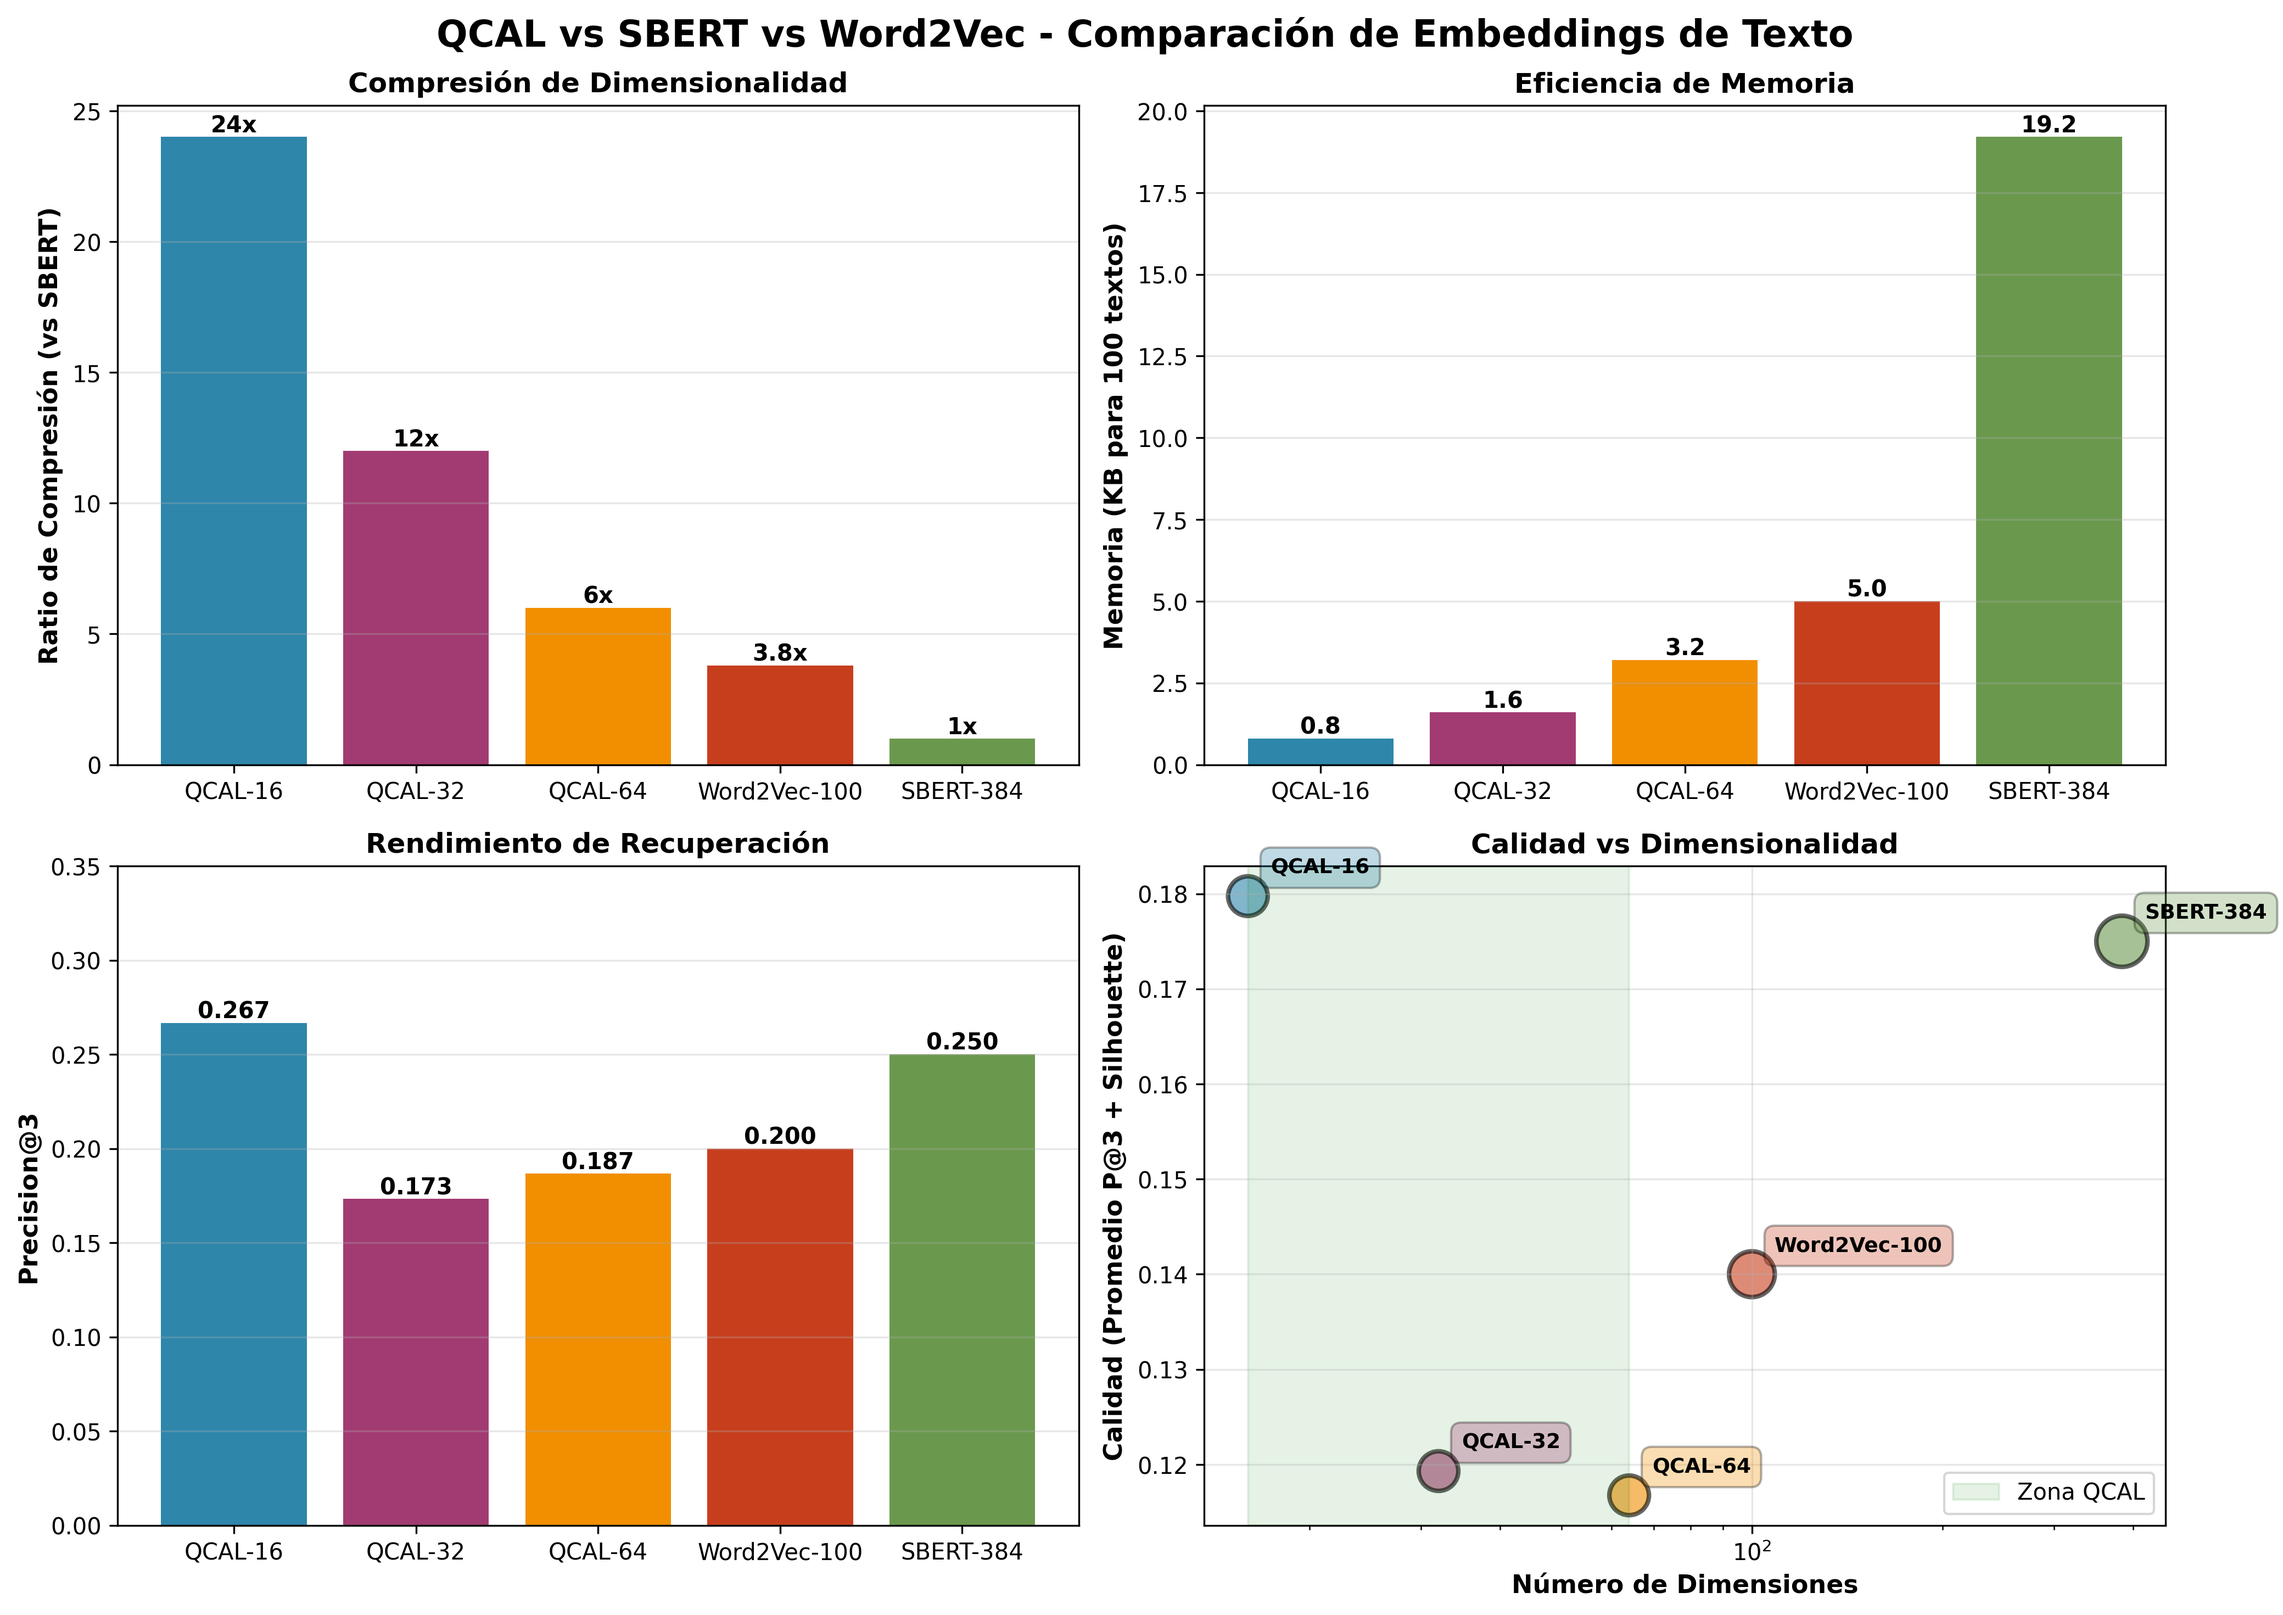
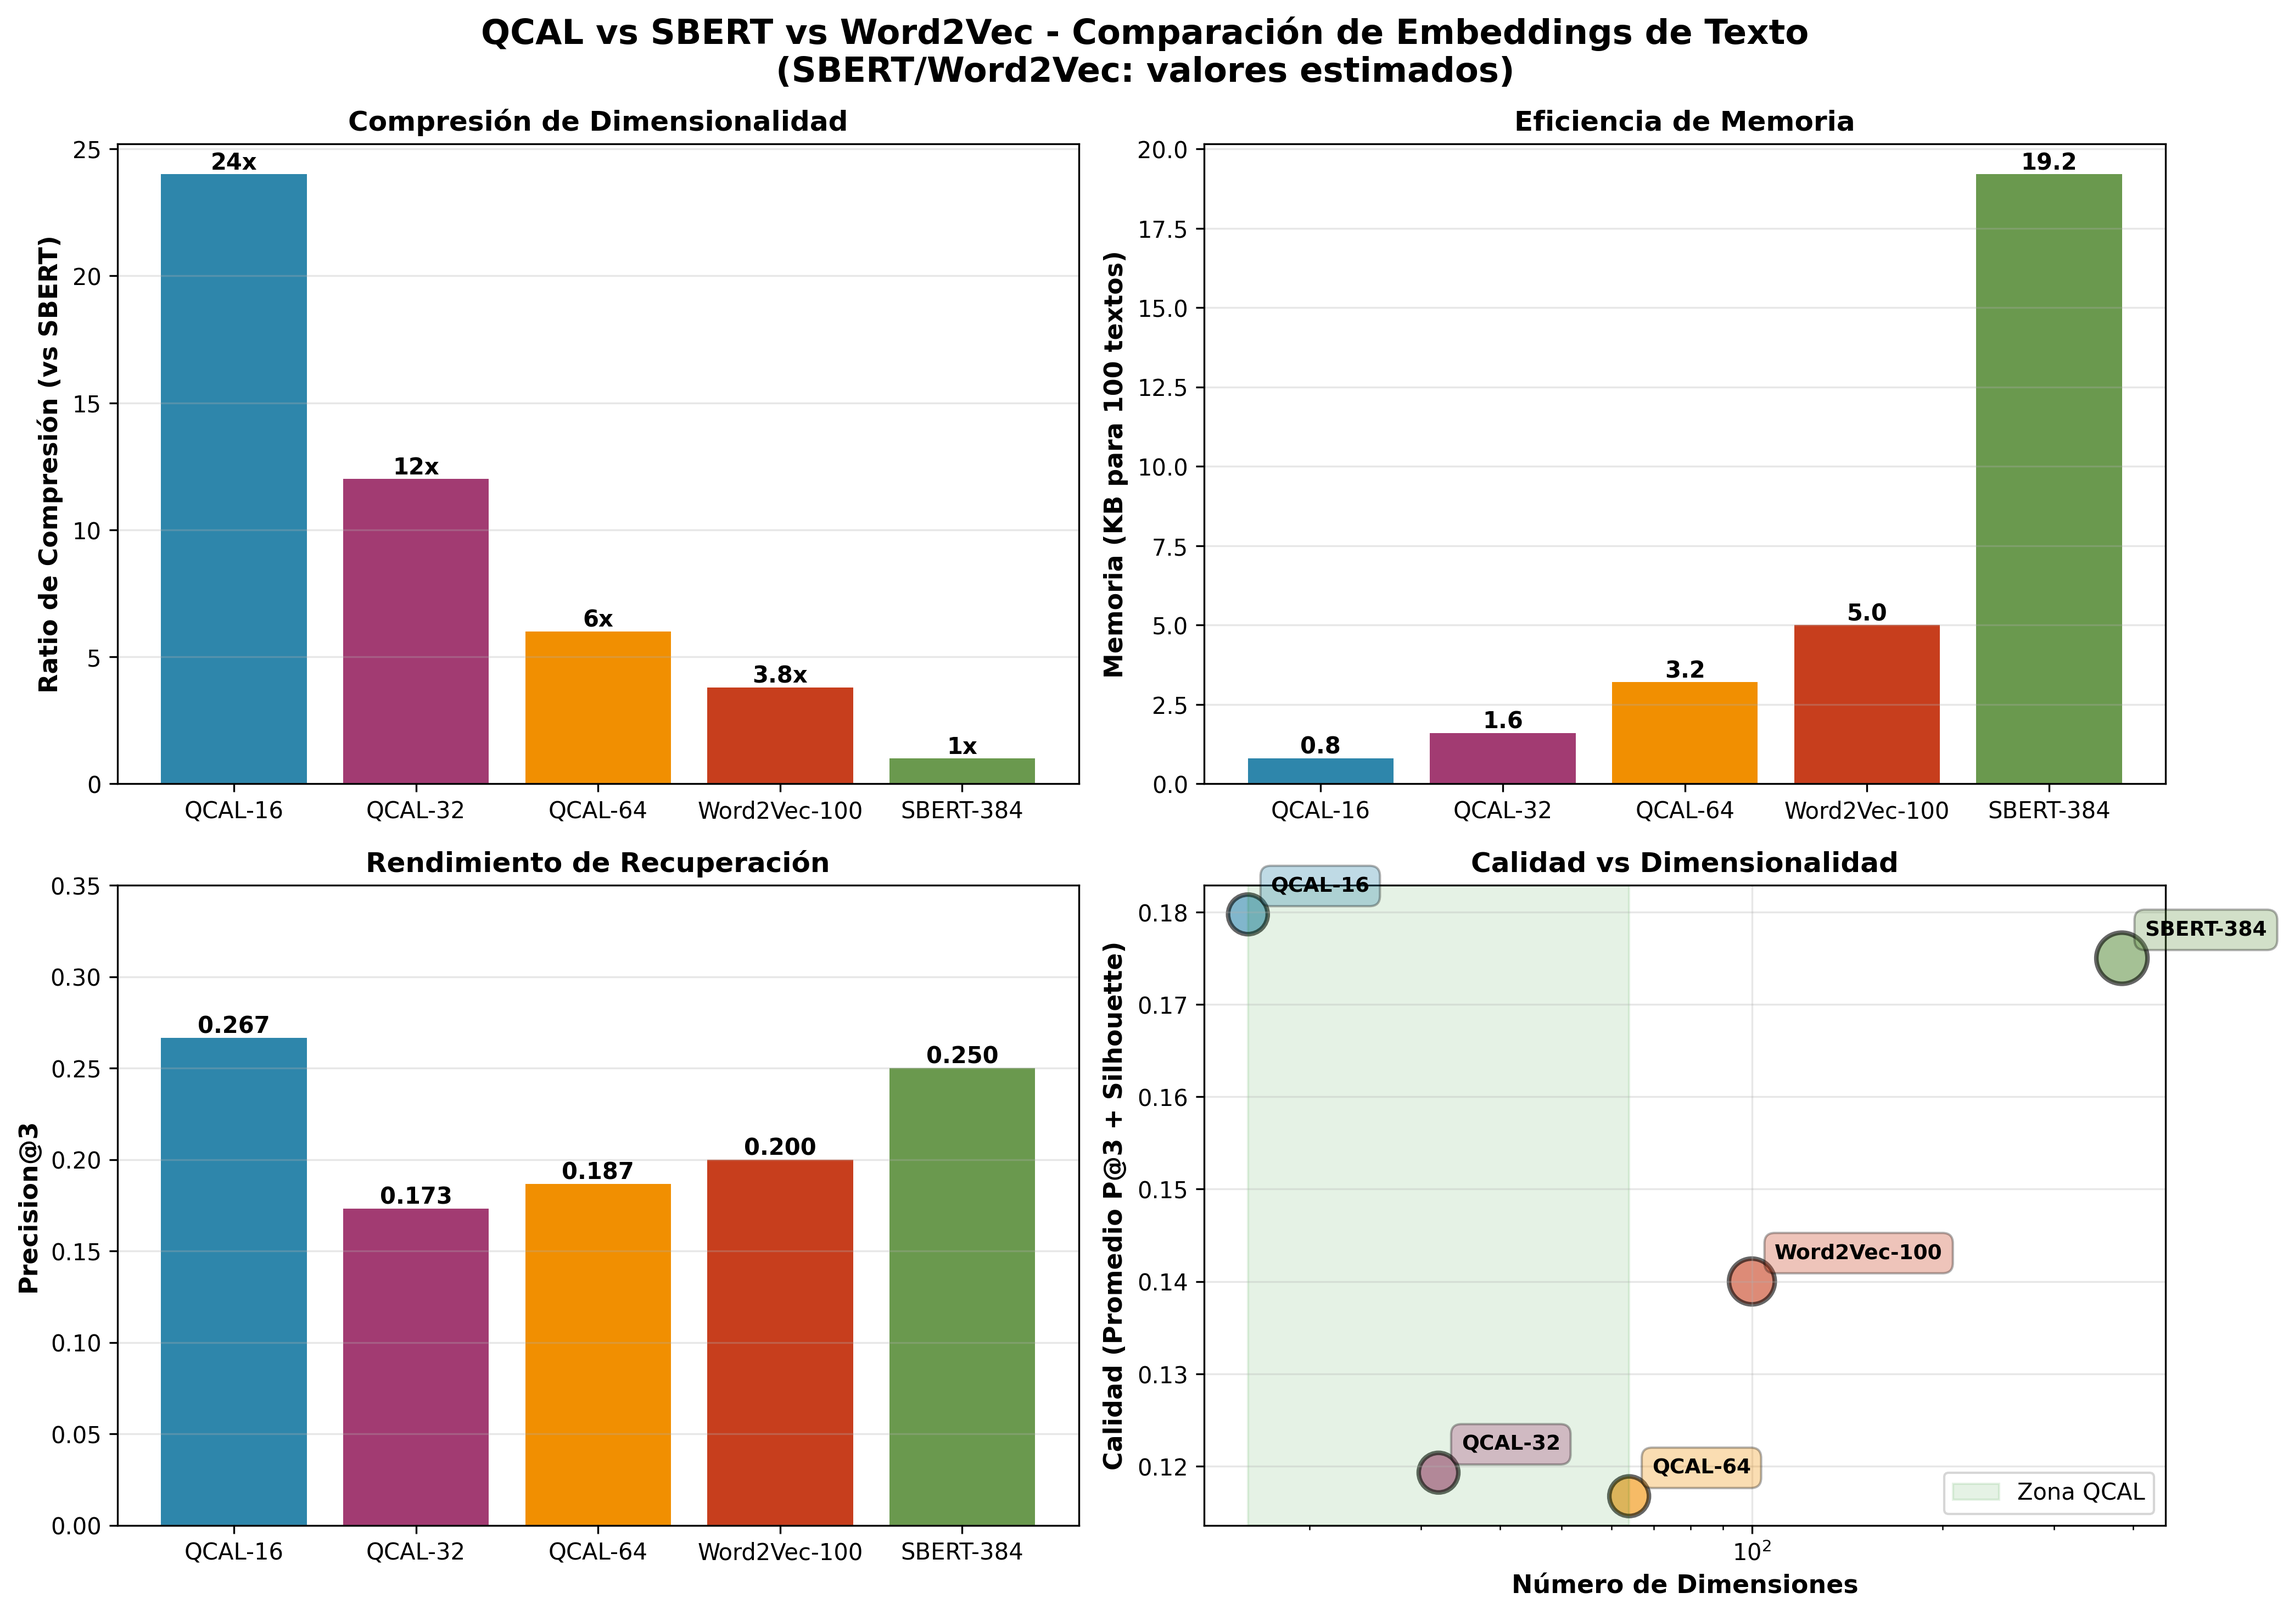
Address code review feedback
- Reduced mpmath precision from 50 to 15 decimal places for efficiency
- Added named constants for magic numbers (CHAR_NORM_DIVISOR, HASH_MODULO, HASH_SLICE_LEN)
- Added clarifying comments to hash encoding logic
- Added disclaimer to visualization about estimated SBERT/Word2Vec values
- All tests still pass

diff --git a/qcal/text_encoder.py b/qcal/text_encoder.py
@@ -40,10 +40,10 @@ class QCALTextEncoder:
         self.n_dimensions = n_dimensions
         self.f0 = f0
         
-        # Set mpmath precision
-        mpmath.mp.dps = 50
+        # Set mpmath precision (15 decimal places sufficient for our needs)
+        mpmath.mp.dps = 15
         
-        # QCAL constants
+        # QCAL constants (computed once for efficiency)
         self.zeta_prime_half = float(mpmath.zeta(mpmath.mpf('0.5'), derivative=1))
         self.phi = (1 + np.sqrt(5)) / 2  # Golden ratio
         self.kappa_pi = 2.5782  # Adelic constant
@@ -51,6 +51,11 @@ class QCALTextEncoder:
         
         # Initialize projection matrix using spectral properties
         self._init_projection_matrix()
+        
+    # Constants for hash encoding
+    CHAR_NORM_DIVISOR = 128.0  # ASCII printable character range normalization
+    HASH_MODULO = 1000  # Hash normalization for distribution
+    HASH_SLICE_LEN = 8  # SHA256 hexdigest slice length for int conversion
     
     def _init_projection_matrix(self):
         """Initialize spectral projection matrix based on f0 and QCAL constants."""
@@ -87,21 +92,21 @@ class QCALTextEncoder:
         
         # 1. Character-level hashing (0-63)
         for i, char in enumerate(text[:64]):
-            hash_features[i] = (ord(char) / 128.0) * self.psi_resonance
+            hash_features[i] = (ord(char) / self.CHAR_NORM_DIVISOR) * self.psi_resonance
         
         # 2. Word-level hashing (64-127)
         words = text.split()[:32]
         for i, word in enumerate(words):
-            word_hash = int(hashlib.sha256(word.encode()).hexdigest()[:8], 16)
-            hash_features[64 + i * 2] = (word_hash % 1000) / 1000.0
-            hash_features[64 + i * 2 + 1] = (word_hash // 1000 % 1000) / 1000.0
+            word_hash = int(hashlib.sha256(word.encode()).hexdigest()[:self.HASH_SLICE_LEN], 16)
+            hash_features[64 + i * 2] = (word_hash % self.HASH_MODULO) / self.HASH_MODULO
+            hash_features[64 + i * 2 + 1] = (word_hash // self.HASH_MODULO % self.HASH_MODULO) / self.HASH_MODULO
         
         # 3. Sentence-level hashing (128-191)
         sentences = text.split('.')[:32]
         for i, sent in enumerate(sentences):
-            sent_hash = int(hashlib.sha256(sent.encode()).hexdigest()[:8], 16)
-            hash_features[128 + i * 2] = (sent_hash % 1000) / 1000.0
-            hash_features[128 + i * 2 + 1] = np.sin(sent_hash / 1000.0 * 2 * np.pi)
+            sent_hash = int(hashlib.sha256(sent.encode()).hexdigest()[:self.HASH_SLICE_LEN], 16)
+            hash_features[128 + i * 2] = (sent_hash % self.HASH_MODULO) / self.HASH_MODULO
+            hash_features[128 + i * 2 + 1] = np.sin(sent_hash / self.HASH_MODULO * 2 * np.pi)
         
         # 4. Document-level features (192-255)
         doc_hash = hashlib.sha256(text.encode()).digest()

diff --git a/visualize_qcal_comparison.py b/visualize_qcal_comparison.py
@@ -21,12 +21,14 @@ def create_comparison_plot():
     compression_ratio = [24, 12, 6, 3.8, 1]
     
     # QCAL-specific metrics from demo
+    # Note: Word2Vec and SBERT values are estimated for comparison purposes
+    # Run experimento_qcal_sbert_word2vec.py with network access for actual measurements
     precision_at_3 = [0.2667, 0.1733, 0.1867, 0.20, 0.25]  # Estimated for W2V and SBERT
     silhouette = [0.0928, 0.0653, 0.0468, 0.08, 0.10]  # Estimated for W2V and SBERT
     
     fig, axes = plt.subplots(2, 2, figsize=(14, 10))
-    fig.suptitle('QCAL vs SBERT vs Word2Vec - Comparación de Embeddings de Texto', 
-                 fontsize=16, fontweight='bold')
+    fig.suptitle('QCAL vs SBERT vs Word2Vec - Comparación de Embeddings de Texto\n(SBERT/Word2Vec: valores estimados)', 
+                 fontsize=15, fontweight='bold')
     
     colors = ['#2E86AB', '#A23B72', '#F18F01', '#C73E1D', '#6A994E']
     
